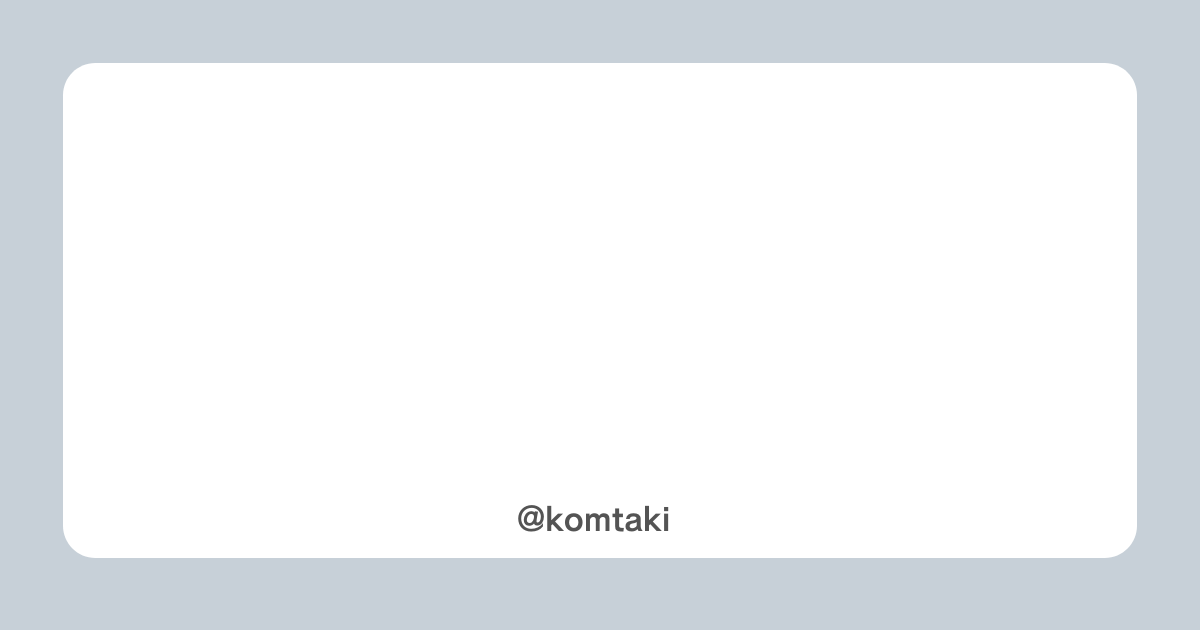
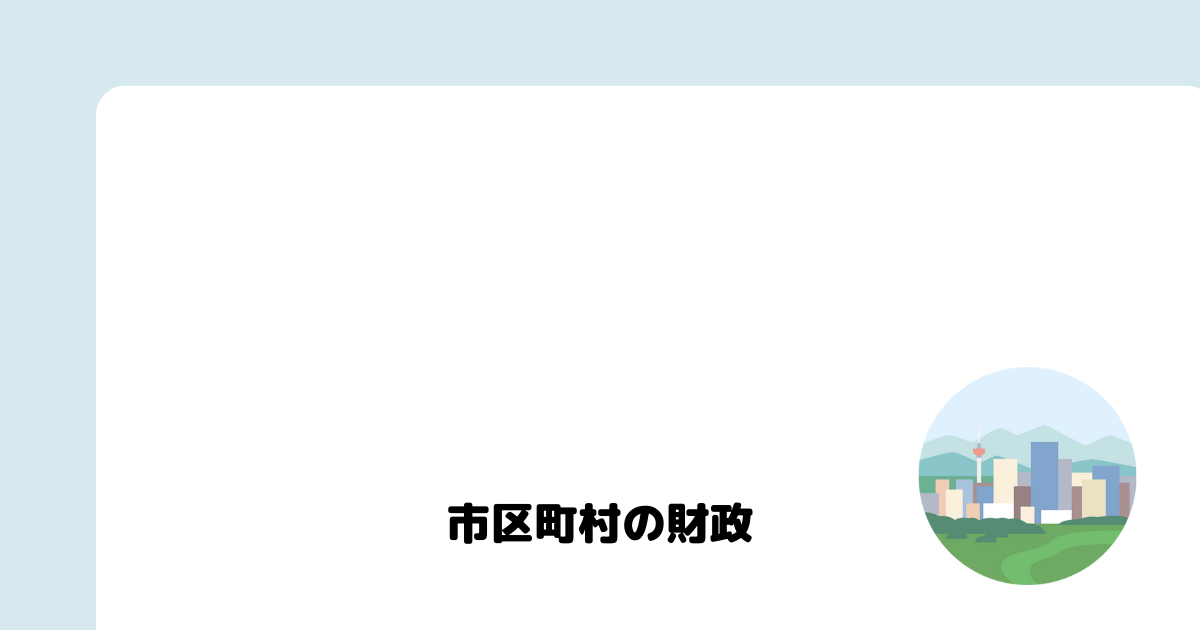
feat: OGP画像を追加

diff --git a/src/components/uiParts/Header/index.tsx b/src/components/uiParts/Header/index.tsx
@@ -17,7 +17,7 @@ const Header: React.FC = () => {
           <img src="/img/serviceIcon.png" className={cssStyle['serviceIcon']} />
           <Link href="/">
             <a className={cssStyle['serviceName']}>
-              <Typography variant="h2" component="div" sx={{ fontWeight: 600 }}>
+              <Typography variant="h5" component="div" sx={{ fontWeight: 600 }}>
                 {CMS_NAME}
               </Typography>
             </a>

diff --git a/bin/ogImage/create.js b/bin/ogImage/create.js
@@ -96,7 +96,7 @@ try {
 
   getAllPrefectures().forEach((prefecture) => {
     const targetFile = path.join(targetDir, `${prefecture.id}.png`)
-    generateImage(`${prefecture.name}の財政健全度ランキング`, targetFile)
+    generateImage(`${prefecture.name}の財政力指数ランキング`, targetFile)
     console.log(`generated ${targetFile}`)
   })
 } catch (e) {

diff --git a/src/lib/constants.ts b/src/lib/constants.ts
@@ -1,3 +1,3 @@
-export const CMS_NAME = '市区町村の健康'
+export const CMS_NAME = '市区町村の財政'
 export const CMD_DOMAIN_URL =
   process.env.NEXT_PUBLIC_DOMAIN_URL || 'http://localhost:3000'
